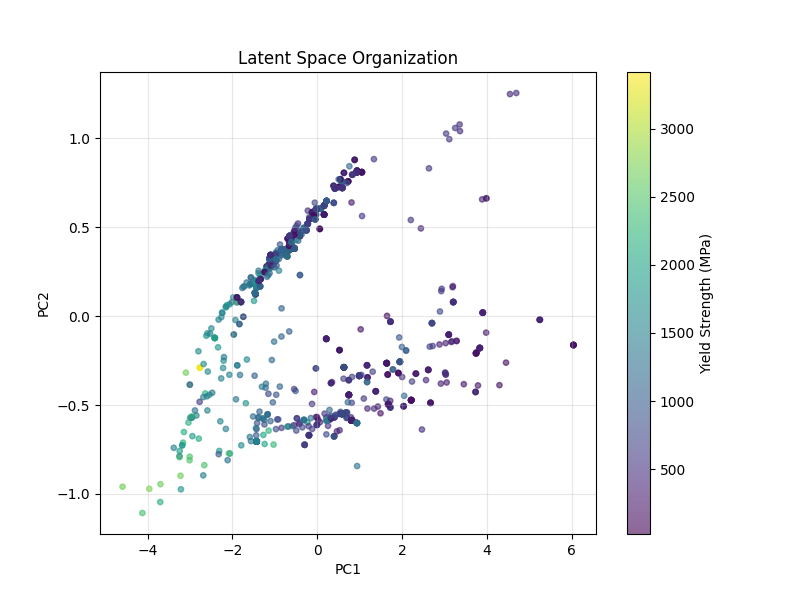
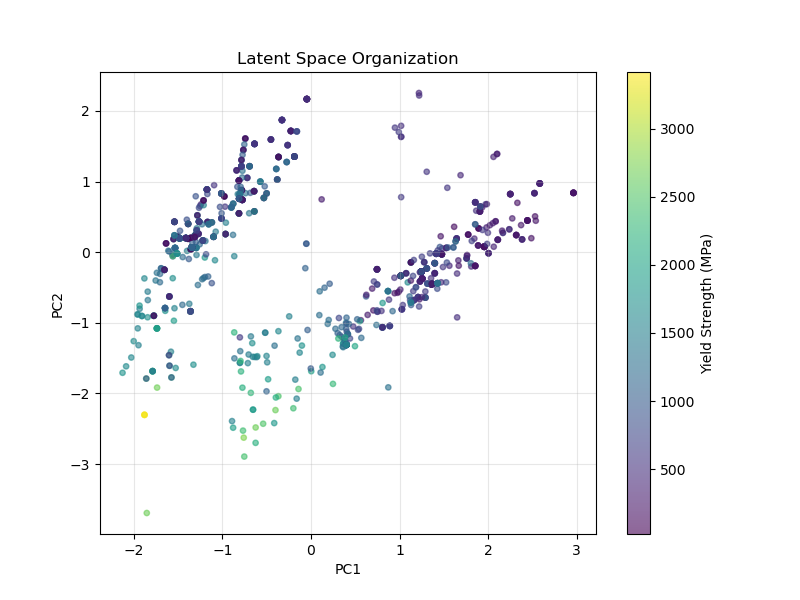
r2 value is ass

diff --git a/models/trainer.py b/models/trainer.py
@@ -16,9 +16,10 @@ class Trainer():
         self.opt = AdamW(learning_rate=1e-4) if opt is None else opt
         self.alpha = alpha
         self.beta = beta
-        
+
         # Create loss and gradient function using MLX's value_and_grad
-        def loss_fn(model, x, y):
+        # Note: beta will be dynamically set during training for KL annealing
+        def loss_fn(model, x, y, beta_val):
             recon_x, pred_y, mu, logvar = model(x)
             loss = property_guided_loss(
                 recon_x,
@@ -28,16 +29,22 @@ class Trainer():
                 mu,
                 logvar, 
                 alpha=self.alpha,
-                beta=self.beta
+                beta=beta_val
             )
             return loss
         
         self.loss_fn = loss_fn
-        self.loss_and_grad_fn = mx.value_and_grad(loss_fn)
+        # Create a function that returns value_and_grad with current beta
+        def get_loss_and_grad_fn(beta_val):
+            def loss_fn_with_beta(model, x, y):
+                return loss_fn(model, x, y, beta_val)
+            return mx.value_and_grad(loss_fn_with_beta)
+        
+        self.get_loss_and_grad_fn = get_loss_and_grad_fn
 
     def train(self, epochs: int=1, csv_path='data/MPEA_cleaned.csv', batch_size=64, 
               log_file=None, val_split=0.2, early_stopping_patience=10, early_stopping_min_delta=0.0,
-              save_dir='models'):
+              save_dir='models', kl_annealing_epochs=0, kl_annealing_start=0.0):
         """
         Train the HEA VAE model using MLX.
         
@@ -50,6 +57,8 @@ class Trainer():
             early_stopping_patience: Number of epochs to wait before stopping if no improvement
             early_stopping_min_delta: Minimum change to qualify as an improvement
             save_dir: Directory to save model checkpoints (default: 'models')
+            kl_annealing_epochs: Number of epochs to anneal KL weight from start to target (0 = no annealing)
+            kl_annealing_start: Starting value for beta (KL weight) during annealing (default: 0.0)
         """
         # Load data - returns generator functions for train and validation
         train_gen, val_gen, y_mean, y_std, input_dim, n_train, n_val = load_hea_data(
@@ -68,6 +77,24 @@ class Trainer():
         patience_counter = 0
         best_epoch = 0
         
+        # KL Annealing setup
+        use_kl_annealing = kl_annealing_epochs > 0
+        if use_kl_annealing:
+            print(f"KL Annealing enabled: beta will increase from {kl_annealing_start:.4f} to {self.beta:.4f} over {kl_annealing_epochs} epochs")
+            if log_file:
+                with open(log_file, 'a') as f:
+                    f.write(f"KL Annealing: beta from {kl_annealing_start:.4f} to {self.beta:.4f} over {kl_annealing_epochs} epochs\n")
+        else:
+            # No annealing - early stopping is active from the start
+            print(f"\n{'='*60}")
+            print(f"Early Stopping Active (No KL Annealing)")
+            print(f"  Beta (KL weight): {self.beta:.4f}")
+            print(f"  Early stopping patience: {early_stopping_patience} epochs")
+            print(f"{'='*60}\n")
+            if log_file:
+                with open(log_file, 'a') as f:
+                    f.write(f"\nEarly Stopping Active (No KL Annealing) - patience={early_stopping_patience}\n")
+        
         # Create models directory if it doesn't exist
         if save_dir:
             os.makedirs(save_dir, exist_ok=True)
@@ -75,12 +102,43 @@ class Trainer():
             model_path = os.path.join(save_dir, "hea_vae_best.npz")
         else:
             model_path = None
-        
+
         for epoch in range(1, 1+epochs):
             total_loss = 0.0
             chem_loss_acc = 0.0
             prop_loss_acc = 0.0
             kld_loss_acc = 0.0
+            
+            # Compute annealed beta for this epoch
+            if use_kl_annealing:
+                # Linear annealing: beta = start + (target - start) * min(1.0, epoch / annealing_epochs)
+                annealing_progress = min(1.0, epoch / kl_annealing_epochs)
+                current_beta = kl_annealing_start + (self.beta - kl_annealing_start) * annealing_progress
+            else:
+                current_beta = self.beta
+            
+            # Check if annealing just completed (transition from annealing to non-annealing)
+            is_annealing = use_kl_annealing and epoch <= kl_annealing_epochs
+            was_annealing = use_kl_annealing and (epoch - 1) <= kl_annealing_epochs and (epoch - 1) > 0
+            annealing_just_completed = was_annealing and not is_annealing
+            
+            # Reset patience counter and best validation loss when annealing completes
+            # This is important because the loss scale changes significantly when beta goes from 0 to target
+            if annealing_just_completed:
+                patience_counter = 0
+                best_val_loss = float('inf')  # Reset to allow model to establish new baseline
+                best_epoch = 0
+                print(f"\n{'='*60}")
+                print(f"KL Annealing Complete: Early Stopping Now Active")
+                print(f"  Beta has reached target value: {self.beta:.4f}")
+                print(f"  Early stopping patience: {early_stopping_patience} epochs")
+                print(f"{'='*60}\n")
+                if log_file:
+                    with open(log_file, 'a') as f:
+                        f.write(f"\nKL Annealing Complete: Early Stopping Now Active (patience={early_stopping_patience})\n")
+            
+            # Get loss and grad function with current beta
+            loss_and_grad_fn = self.get_loss_and_grad_fn(current_beta)
             
             # Create progress bar for this epoch
             pbar = tqdm(train_gen(), total=n_batches_per_epoch, 
@@ -89,8 +147,8 @@ class Trainer():
             
             # Iterate through training batches
             for x_batch, y_batch in pbar:
-                # Forward pass and compute gradients
-                loss, grads = self.loss_and_grad_fn(self.model, x_batch, y_batch)
+                # Forward pass and compute gradients with current beta
+                loss, grads = loss_and_grad_fn(self.model, x_batch, y_batch)
                 
                 # Update model parameters (MLX optimizer updates model in place)
                 self.opt.update(self.model, grads)
@@ -142,11 +200,13 @@ class Trainer():
                 val_loss_total = 0.0
                 for x_val, y_val in val_gen():
                     recon_x, pred_y, mu, logvar = self.model(x_val)
-                    val_loss_batch = self.loss_fn(self.model, x_val, y_val)
+                    val_loss_batch = self.loss_fn(self.model, x_val, y_val, current_beta)
                     val_loss_total += float(val_loss_batch)
                 val_loss = val_loss_total / n_val_batches
                 
-                # Early stopping check
+                # Early stopping check (disabled during KL annealing)
+                is_annealing = use_kl_annealing and epoch <= kl_annealing_epochs
+                
                 if val_loss < best_val_loss - early_stopping_min_delta:
                     best_val_loss = val_loss
                     best_epoch = epoch
@@ -157,28 +217,38 @@ class Trainer():
                         self.model.save_weights(model_path)
                         print(f"  -> Saved best model to {model_path}")
                 else:
-                    patience_counter += 1
+                    # Only increment patience counter if not in annealing phase
+                    if not is_annealing:
+                        patience_counter += 1
                 
                 # Log epoch summary with validation
                 weighted_prop = avg_prop * self.alpha
-                weighted_kld = avg_kld * self.beta
-                summary = f"Epoch {epoch}/{epochs} Summary: Train Loss={avg_loss:.4f} | Val Loss={val_loss:.4f} | Chem={avg_chem:.4f} | Prop={avg_prop:.4f} | KLD={avg_kld:.4f}"
-                if patience_counter > 0:
+                weighted_kld = avg_kld * current_beta
+                summary = f"Epoch {epoch}/{epochs} Summary: Train Loss={avg_loss:.4f} | Val Loss={val_loss:.4f} | Chem={avg_chem:.4f} | Prop={avg_prop:.4f} | KLD={avg_kld:.4f} | Beta={current_beta:.4f}"
+                if not is_annealing and patience_counter > 0:
                     summary += f" | Patience: {patience_counter}/{early_stopping_patience}"
+                if is_annealing:
+                    summary += " | (Annealing - early stopping disabled)"
                 summary += "\n"
                 
-                print(f"Epoch {epoch}/{epochs}: Train Loss={avg_loss:.4f}, Val Loss={val_loss:.4f}, Best Val Loss={best_val_loss:.4f} (epoch {best_epoch})")
+                beta_info = f" (beta={current_beta:.4f})" if use_kl_annealing else ""
+                annealing_info = " [Annealing]" if is_annealing else ""
+                print(f"Epoch {epoch}/{epochs}: Train Loss={avg_loss:.4f}, Val Loss={val_loss:.4f}, Best Val Loss={best_val_loss:.4f} (epoch {best_epoch}){beta_info}{annealing_info}")
                 
                 if log_file:
                     with open(log_file, 'a') as f:
                         f.write(summary)
                 
-                # Early stopping
-                if patience_counter >= early_stopping_patience:
-                    print(f"\nEarly stopping triggered! No improvement for {early_stopping_patience} epochs.")
-                    print(f"Best validation loss: {best_val_loss:.4f} at epoch {best_epoch}")
+                # Early stopping (ONLY after annealing completes - double check)
+                # Ensure we're not in annealing phase before checking early stopping
+                if not is_annealing and patience_counter >= early_stopping_patience:
+                    print(f"\n{'='*60}")
+                    print(f"Early Stopping Triggered!")
+                    print(f"  No improvement for {early_stopping_patience} epochs")
+                    print(f"  Best validation loss: {best_val_loss:.4f} at epoch {best_epoch}")
                     if model_path:
-                        print(f"Best model saved at: {model_path}")
+                        print(f"  Best model saved at: {model_path}")
+                    print(f"{'='*60}\n")
                     if log_file:
                         with open(log_file, 'a') as f:
                             f.write(f"\nEarly stopping at epoch {epoch}. Best val loss: {best_val_loss:.4f} at epoch {best_epoch}\n")

diff --git a/train.py b/train.py
@@ -32,6 +32,10 @@ def main():
                         help='Number of epochs to wait before early stopping (default: 5)')
     parser.add_argument('--early-stopping-min-delta', type=float, default=0.0,
                         help='Minimum change to qualify as improvement (default: 0.0)')
+    parser.add_argument('--kl-annealing-epochs', type=int, default=10,
+                        help='Number of epochs to anneal KL weight from start to target (0 = no annealing, default: 10)')
+    parser.add_argument('--kl-annealing-start', type=float, default=0.0,
+                        help='Starting value for beta (KL weight) during annealing (default: 0.0)')
     
     args = parser.parse_args()
     
@@ -56,6 +60,8 @@ def main():
     if args.val_split > 0:
         print(f"Early Stopping Patience: {args.early_stopping_patience}")
         print(f"Early Stopping Min Delta: {args.early_stopping_min_delta}")
+    if args.kl_annealing_epochs > 0:
+        print(f"KL Annealing: {args.kl_annealing_start:.4f} -> {args.beta:.4f} over {args.kl_annealing_epochs} epochs")
     print(f"Log File: {log_file}")
     print("=" * 60)
     print()
@@ -76,6 +82,8 @@ def main():
         if args.val_split > 0:
             f.write(f"Early Stopping Patience: {args.early_stopping_patience}\n")
             f.write(f"Early Stopping Min Delta: {args.early_stopping_min_delta}\n")
+        if args.kl_annealing_epochs > 0:
+            f.write(f"KL Annealing: {args.kl_annealing_start:.4f} -> {args.beta:.4f} over {args.kl_annealing_epochs} epochs\n")
         f.write("=" * 60 + "\n\n")
     
     # Initialize optimizer with specified learning rate
@@ -93,7 +101,9 @@ def main():
         val_split=args.val_split,
         early_stopping_patience=args.early_stopping_patience,
         early_stopping_min_delta=args.early_stopping_min_delta,
-        save_dir='models'
+        save_dir='models',
+        kl_annealing_epochs=args.kl_annealing_epochs,
+        kl_annealing_start=args.kl_annealing_start
     )
     
     # Write completion to log file

diff --git a/models/hea_vae.py b/models/hea_vae.py
@@ -5,7 +5,7 @@ class HEA_VAE(nn.Module):
     def __init__(
         self,
         input_dim: int=30, # 30 unique elements
-        latent_dim: int=2, #[2, 4, 8]
+        latent_dim: int=4, #[2, 4, 8]
         hidden_dim: int=128,
     ):
         super().__init__()
@@ -18,14 +18,16 @@ class HEA_VAE(nn.Module):
         self.dec_out = nn.Linear(hidden_dim, input_dim)
 
         self.regressor = [
-            nn.Linear(latent_dim, 16),
-            nn.ReLU(),
-            nn.Linear(16, 1)
+            nn.Linear(latent_dim, 64),  # Widen to 64
+            nn.LeakyReLU(),
+            nn.Linear(64, 64),          # Add depth (extra layer)
+            nn.LeakyReLU(),
+            nn.Linear(64, 1)
         ]
 
     def encode(self, x):
-        h = nn.relu(self.enc1(x))
-        h = nn.relu(self.enc2(h))
+        h = nn.leaky_relu(self.enc1(x))
+        h = nn.leaky_relu(self.enc2(h))
         mu = self.fc_mu(h)
         logvar = self.fc_logvar(h)
         return mu, logvar
@@ -36,8 +38,8 @@ class HEA_VAE(nn.Module):
         return mu + eps * std
 
     def decode(self, z):
-        h = nn.relu(self.dec1(z))
-        h = nn.relu(self.dec2(h))
+        h = nn.leaky_relu(self.dec1(z))
+        h = nn.leaky_relu(self.dec2(h))
         x = nn.softmax(self.dec_out(h))
         return x
 
